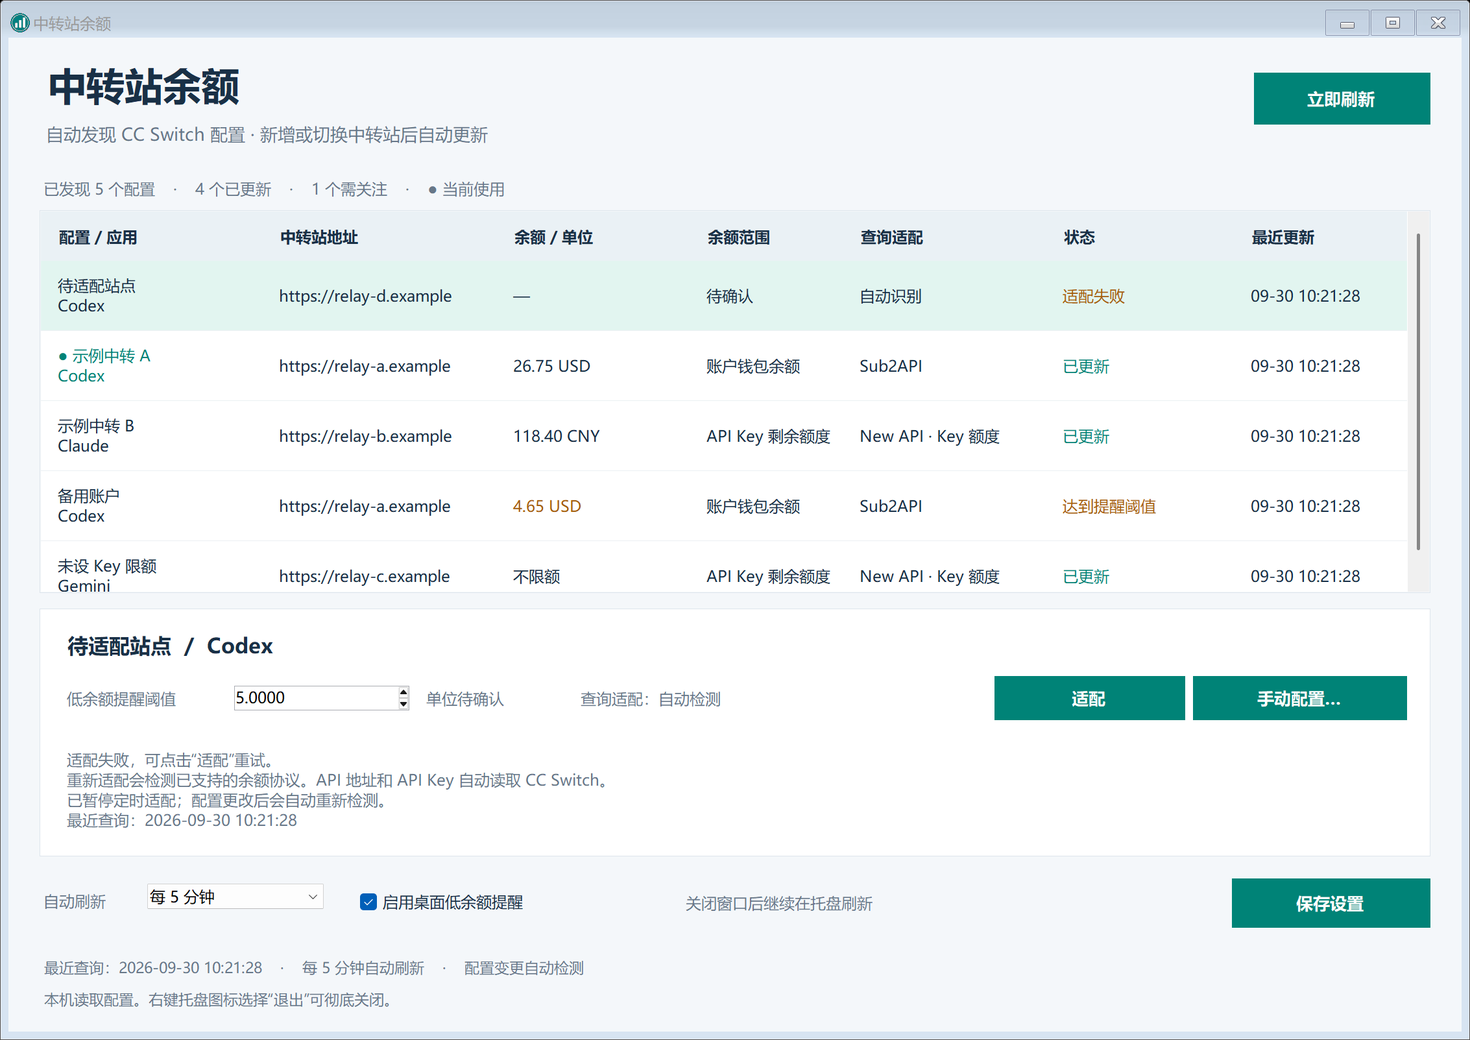
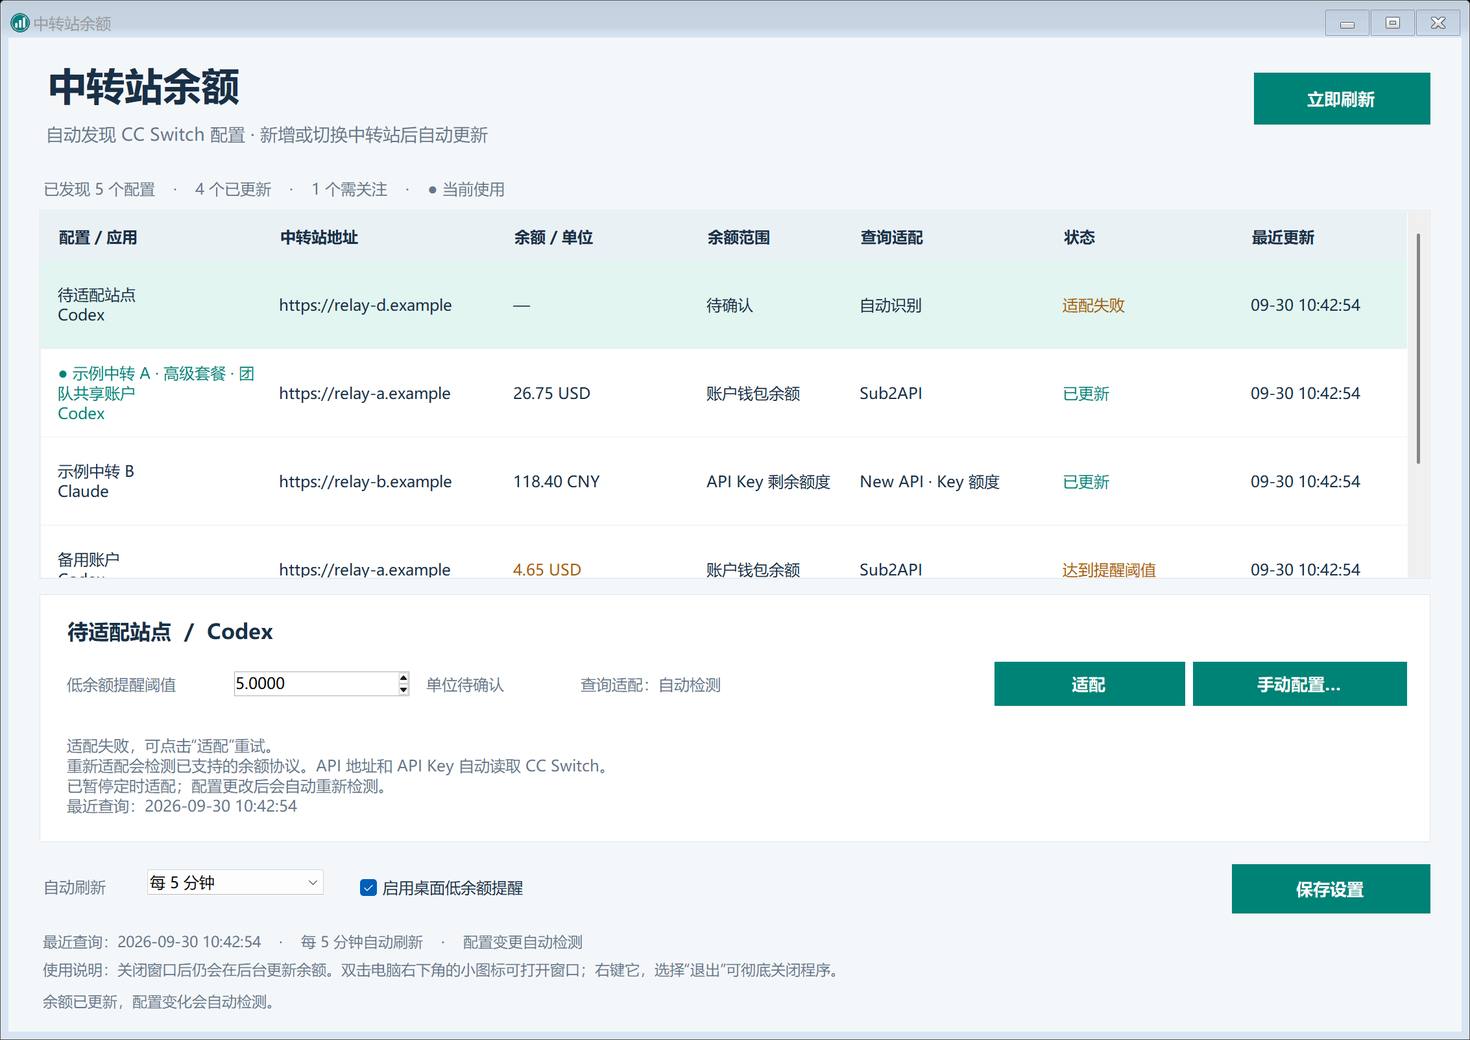
Improve failure retries, provider row sizing, and background guidance

diff --git a/src/BalanceForm.cs b/src/BalanceForm.cs
@@ -61,8 +61,9 @@ namespace RelayBalanceDesktop
         {
             float scale; using (Graphics graphics = CreateGraphics()) scale = graphics.DpiY / 96F;
             _grid.ColumnHeadersHeight = (int)Math.Ceiling(38F * scale);
-            _grid.RowTemplate.Height = (int)Math.Ceiling(54F * scale);
-            _grid.DefaultCellStyle.Padding = new Padding((int)Math.Round(10F * scale), (int)Math.Round(6F * scale), 0, (int)Math.Round(6F * scale));
+            _grid.RowTemplate.MinimumHeight = (int)Math.Ceiling(68F * scale);
+            _grid.RowTemplate.Height = _grid.RowTemplate.MinimumHeight;
+            _grid.DefaultCellStyle.Padding = new Padding((int)Math.Round(10F * scale), (int)Math.Round(10F * scale), 0, (int)Math.Round(10F * scale));
             _grid.ColumnHeadersDefaultCellStyle.Padding = new Padding((int)Math.Round(10F * scale), 0, 0, 0);
             foreach (DataGridViewColumn column in _grid.Columns) column.MinimumWidth = (int)Math.Ceiling(column.MinimumWidth * scale);
             _contentMinimum = new Size((int)Math.Ceiling(1048F * scale), (int)Math.Ceiling(580F * scale));
@@ -98,7 +99,7 @@ namespace RelayBalanceDesktop
             layout.ColumnStyles.Add(new ColumnStyle(SizeType.Percent, 100F));
             layout.RowStyles.Add(new RowStyle(SizeType.Absolute, 82F)); layout.RowStyles.Add(new RowStyle(SizeType.Absolute, 34F));
             layout.RowStyles.Add(new RowStyle(SizeType.Percent, 100F)); layout.RowStyles.Add(new RowStyle(SizeType.Absolute, 199F));
-            layout.RowStyles.Add(new RowStyle(SizeType.Absolute, 67F)); layout.RowStyles.Add(new RowStyle(SizeType.Absolute, 50F));
+            layout.RowStyles.Add(new RowStyle(SizeType.Absolute, 58F)); layout.RowStyles.Add(new RowStyle(SizeType.Absolute, 70F));
             Controls.Add(layout);
             Panel header = new Panel(); header.Size = new Size(1072, 82); header.Dock = DockStyle.Fill; header.Margin = Padding.Empty;
             header.Controls.Add(LabelAt("中转站余额", 0, 0, 500, 37, 22F, FontStyle.Bold, Ink));
@@ -121,8 +122,9 @@ namespace RelayBalanceDesktop
             _grid.ColumnHeadersDefaultCellStyle.Font = new Font(Font, FontStyle.Bold); _grid.ColumnHeadersDefaultCellStyle.Padding = new Padding(10, 0, 0, 0);
             _grid.DefaultCellStyle.BackColor = Color.White; _grid.DefaultCellStyle.ForeColor = Ink;
             _grid.DefaultCellStyle.SelectionBackColor = Color.FromArgb(226, 245, 240); _grid.DefaultCellStyle.SelectionForeColor = Ink;
-            _grid.DefaultCellStyle.Padding = new Padding(10, 6, 0, 6); _grid.DefaultCellStyle.WrapMode = DataGridViewTriState.True;
-            _grid.RowTemplate.Height = 54;
+            _grid.DefaultCellStyle.Padding = new Padding(10, 10, 0, 10); _grid.DefaultCellStyle.WrapMode = DataGridViewTriState.True;
+            _grid.RowTemplate.MinimumHeight = 68; _grid.RowTemplate.Height = 68;
+            _grid.AutoSizeRowsMode = DataGridViewAutoSizeRowsMode.AllCellsExceptHeaders;
             AddColumn("provider", "配置 / 应用", 177, 154); AddColumn("origin", "中转站地址", 191, 140);
             AddColumn("balance", "余额 / 单位", 132, 117); AddColumn("kind", "余额范围", 103, 88);
             AddColumn("adapter", "查询适配", 139, 110); AddColumn("status", "状态", 127, 110); AddColumn("updated", "最近更新", 117, 104);
@@ -164,13 +166,16 @@ namespace RelayBalanceDesktop
             _notifications = new CheckBox(); _notifications.Location = new Point(247, 13); _notifications.Size = new Size(236, 29);
             _notifications.Text = "启用桌面低余额提醒"; _notifications.Checked = _preview || LoadNotifications();
             _notifications.CheckedChanged += delegate { SaveNotifications(); }; global.Controls.Add(_notifications);
-            global.Controls.Add(LabelAt("关闭窗口后继续在托盘刷新", 495, 13, 335, 29, 9F, FontStyle.Regular, Muted));
             _saveButton = ActionButton("保存设置", 919, 9, 153, 38); _saveButton.Anchor = AnchorStyles.Top | AnchorStyles.Right;
             _saveButton.Click += delegate { SaveSettings(); }; global.Controls.Add(_saveButton); layout.Controls.Add(global, 0, 4);
-            Panel footer = new Panel(); footer.Size = new Size(1072, 50); footer.Dock = DockStyle.Fill; footer.Margin = Padding.Empty;
-            _checkedLabel = LabelAt("最近查询：尚未查询", 1, 0, 1068, 21, 8.5F, FontStyle.Regular, Muted); _checkedLabel.Anchor = AnchorStyles.Top | AnchorStyles.Left | AnchorStyles.Right; footer.Controls.Add(_checkedLabel);
-            _messageLabel = LabelAt("本机读取配置。右键托盘图标选择“退出”可彻底关闭。", 1, 24, 1068, 22, 8.5F, FontStyle.Regular, Muted);
-            _messageLabel.Anchor = AnchorStyles.Top | AnchorStyles.Left | AnchorStyles.Right; footer.Controls.Add(_messageLabel); layout.Controls.Add(footer, 0, 5);
+            TableLayoutPanel footer = new TableLayoutPanel(); footer.Dock = DockStyle.Fill; footer.Margin = Padding.Empty; footer.ColumnCount = 1; footer.RowCount = 3;
+            footer.ColumnStyles.Add(new ColumnStyle(SizeType.Percent,100F));
+            footer.RowStyles.Add(new RowStyle(SizeType.Absolute,21F)); footer.RowStyles.Add(new RowStyle(SizeType.Absolute,22F)); footer.RowStyles.Add(new RowStyle(SizeType.Percent,100F));
+            _checkedLabel = LabelAt("最近查询：尚未查询", 0, 0, 1068, 21, 8.5F, FontStyle.Regular, Muted); _checkedLabel.Dock = DockStyle.Fill; _checkedLabel.Margin = Padding.Empty; footer.Controls.Add(_checkedLabel,0,0);
+            Label backgroundHint = LabelAt("使用说明：关闭窗口后仍会在后台更新余额。双击电脑右下角的小图标可打开窗口；右键它，选择“退出”可彻底关闭程序。",0,0,1068,22,8.5F,FontStyle.Regular,Muted);
+            backgroundHint.Dock = DockStyle.Fill; backgroundHint.Margin = Padding.Empty; footer.Controls.Add(backgroundHint,0,1); _tips.SetToolTip(backgroundHint,backgroundHint.Text);
+            _messageLabel = LabelAt("已连接本机 CC Switch 配置。", 0, 0, 1068, 22, 8.5F, FontStyle.Regular, Muted); _messageLabel.Dock = DockStyle.Fill; _messageLabel.Margin = Padding.Empty;
+            footer.Controls.Add(_messageLabel,0,2); layout.Controls.Add(footer, 0, 5);
         }
         private void AddColumn(string name, string heading, float weight, int minimum)
         {
@@ -201,7 +206,7 @@ namespace RelayBalanceDesktop
         public void ShowFromTray() { RunOnUi(delegate { Show(); WindowState = FormWindowState.Normal; ShowInTaskbar = true; Activate(); BringToFront(); }); }
         private void HideToTray(bool explain)
         {
-            Hide(); if (explain && !_trayHintShown && _tray != null) { _trayHintShown = true; _tray.ShowBalloonTip(3000, "中转站余额仍在运行", "后台会继续刷新。双击托盘图标打开，右键选择“退出”可彻底关闭。", ToolTipIcon.Info); }
+            Hide(); if (explain && !_trayHintShown && _tray != null) { _trayHintShown = true; _tray.ShowBalloonTip(3000, "中转站余额仍在后台运行", "双击电脑右下角的小图标可打开窗口；右键它，选择“退出”可彻底关闭程序。", ToolTipIcon.Info); }
         }
         protected override void OnFormClosing(FormClosingEventArgs e)
         {
@@ -254,6 +259,8 @@ namespace RelayBalanceDesktop
             _refreshButton.Enabled = !data.refreshing; _refreshButton.Text = data.refreshing ? "正在刷新…" : "立即刷新";
             MergeSettings(data); string preserveId = _selectedId; int scroll = _grid.FirstDisplayedScrollingRowIndex;
             _updatingGrid = true; _grid.SuspendLayout();
+            // Measure once after the batch. Native auto sizing then follows later column-width changes.
+            _grid.AutoSizeRowsMode = DataGridViewAutoSizeRowsMode.None;
             try
             {
                 _providers.Clear(); _grid.Rows.Clear(); int good = 0, needsAttention = 0, selectedIndex = -1;
@@ -273,6 +280,7 @@ namespace RelayBalanceDesktop
                         if (p.status == "ok") good++; else if (p.status != "pending" && p.status != "disabled") needsAttention++;
                         if (String.Equals(p.id, preserveId, StringComparison.Ordinal)) selectedIndex = index; HandleLowBalance(p);
                     }
+                _grid.AutoSizeRowsMode = DataGridViewAutoSizeRowsMode.AllCellsExceptHeaders;
                 _grid.ClearSelection();
                 if (_grid.Rows.Count > 0)
                 {
@@ -286,10 +294,10 @@ namespace RelayBalanceDesktop
                 _summaryLabel.Text = "已发现 " + _providers.Count.ToString(CultureInfo.InvariantCulture) + " 个配置    ·    " + good.ToString(CultureInfo.InvariantCulture) + " 个已更新" + (needsAttention > 0 ? "    ·    " + needsAttention.ToString(CultureInfo.InvariantCulture) + " 个需关注" : "") + "    ·    ● 当前使用";
                 List<string> removed = new List<string>(); foreach (string id in _lastLow.Keys) if (!_providers.ContainsKey(id)) removed.Add(id); foreach (string id in removed) _lastLow.Remove(id);
             }
-            finally { _grid.ResumeLayout(); _updatingGrid = false; }
+            finally { _grid.AutoSizeRowsMode = DataGridViewAutoSizeRowsMode.AllCellsExceptHeaders; _grid.ResumeLayout(); _updatingGrid = false; }
             ShowSelection();
             _checkedLabel.Text = "最近查询：" + LocalDate(data.checkedAt, true) + "    ·    " + IntervalText(data.intervalSeconds) + "自动刷新    ·    配置变更自动检测";
-            if (!SettingsDirty && !_waitingForSettings) SetMessage(!String.IsNullOrWhiteSpace(data.message) ? data.message : (data.refreshing ? "正在查询配置的中转站，请稍候…" : "本机读取配置。右键托盘图标选择“退出”可彻底关闭。"), String.IsNullOrWhiteSpace(data.message) ? Muted : Warning);
+            if (!SettingsDirty && !_waitingForSettings) SetMessage(!String.IsNullOrWhiteSpace(data.message) ? data.message : (data.refreshing ? "正在查询配置的中转站，请稍候…" : "余额已更新，配置变化会自动检测。"), String.IsNullOrWhiteSpace(data.message) ? Muted : Warning);
         }
         private void MergeSettings(Snapshot data)
         {
@@ -329,9 +337,10 @@ namespace RelayBalanceDesktop
             AdapterConfig config; _adapters.TryGetValue(p.id, out config);
             _selectedAdapter.Text = "查询适配：" + AdapterName(config == null ? "auto" : config.type) + (_editedAdapters.Contains(p.id) ? "（待保存）" : ""); _tips.SetToolTip(_selectedAdapter, _selectedAdapter.Text);
             bool unresolved = p.status == "unsupported";
-            _retryDetectionButton.Visible = unresolved;
-            _retryDetectionButton.Enabled = unresolved && !_waitingForSettings && !_refreshing && !_editedAdapters.Contains(p.id) && (p.adapterConfig == null || p.adapterConfig.type == "auto");
-            _tips.SetToolTip(_retryDetectionButton, _editedAdapters.Contains(p.id) ? "查询适配已修改，请先保存设置，再重新适配。" : "重新尝试已支持的余额协议；不会执行脚本或登录网站。");
+            bool retryable = unresolved || p.status == "error" || p.status == "stale";
+            _retryDetectionButton.Visible = retryable;
+            _retryDetectionButton.Enabled = retryable && !_waitingForSettings && !_refreshing && !_editedAdapters.Contains(p.id);
+            _tips.SetToolTip(_retryDetectionButton, _editedAdapters.Contains(p.id) ? "查询适配已修改，请先保存设置，再重新适配。" : "重新检测所选站点；已有手动配置会保留，并按该配置重试。不会执行脚本或登录网站。");
             _adapterButton.Text = "手动配置…";
             _details.Text = StatusText(p) + (String.IsNullOrWhiteSpace(p.message) ? "" : " · " + p.message) + "\r\n今日实际用量：" + OptionalAmount(p.todayUsage, p.unit) + "    累计实际用量：" + OptionalAmount(p.totalUsage, p.unit)
                 + "\r\n最近查询：" + LocalDate(p.updatedAt, true) + "    最近成功：" + LocalDate(p.lastSuccessAt, true);
@@ -340,14 +349,15 @@ namespace RelayBalanceDesktop
                 + "\r\n重新适配会检测已支持的余额协议。API 地址和 API Key 自动读取 CC Switch。"
                 + "\r\n已暂停定时适配；配置更改后会自动重新检测。"
                 + "\r\n" + (_editedAdapters.Contains(p.id) ? "适配方式已修改，请先保存设置。" : "最近查询：" + LocalDate(p.updatedAt, true));
+            else if(retryable) _details.Text = "可点击“适配”重试所选站点，或使用“手动配置…”。已有手动配置会保留。\r\n" + _details.Text;
             _tips.SetToolTip(_details, _details.Text);
         }
         private void RetryDetection()
         {
             if (_preview || _waitingForSettings || _refreshing || _selectedId == null || _editedAdapters.Contains(_selectedId)) return;
-            ProviderSnapshot p; if (!_providers.TryGetValue(_selectedId, out p) || p.status != "unsupported") return;
+            ProviderSnapshot p; if (!_providers.TryGetValue(_selectedId, out p) || (p.status != "unsupported" && p.status != "error" && p.status != "stale")) return;
             _retryDetectionButton.Enabled = false; _refreshing = true; _refreshButton.Enabled = false; _refreshButton.Text = "正在适配…";
-            SetMessage("正在重新适配所选配置，检测已支持的余额协议…", Muted);
+            SetMessage("正在重新检测所选站点，已有手动配置会保留…", Muted);
             try { _client.RetryDetection(_selectedId); } catch { OnErrorReceived("适配未完成，请稍后重试。"); }
         }
         private void ConfigureAdapter()

diff --git a/src/Program.cs b/src/Program.cs
@@ -15,8 +15,8 @@ using System.Windows.Forms;
 [assembly: AssemblyDescription("自动发现 CC Switch 配置的本地 API 余额监控")]
 [assembly: AssemblyCompany("Relay Balance contributors")]
 [assembly: AssemblyProduct("Relay Balance Desktop")]
-[assembly: AssemblyVersion("1.1.1.0")]
-[assembly: AssemblyFileVersion("1.1.1.0")]
+[assembly: AssemblyVersion("1.1.2.0")]
+[assembly: AssemblyFileVersion("1.1.2.0")]
 
 namespace RelayBalanceDesktop
 {
@@ -71,7 +71,7 @@ namespace RelayBalanceDesktop
                 checkedAt = time, intervalSeconds = 300, refreshing = false,
                 providers = new List<ProviderSnapshot>
                 {
-                    new ProviderSnapshot { id="p-00000000000000000001",name="示例中转 A",app="codex",origin="https://relay-a.example",status="ok",remaining=26.7500,unit="USD",todayUsage=1.2500,totalUsage=73.25,threshold=5,current=true,adapter="sub2api",adapterLabel="Sub2API",balanceKindLabel="账户钱包余额",message="示例数据；余额来自站点接口，用量为当前 API Key 实际花费",updatedAt=time,lastSuccessAt=time },
+                    new ProviderSnapshot { id="p-00000000000000000001",name="示例中转 A · 高级套餐 · 团队共享账户",app="codex",origin="https://relay-a.example",status="ok",remaining=26.7500,unit="USD",todayUsage=1.2500,totalUsage=73.25,threshold=5,current=true,adapter="sub2api",adapterLabel="Sub2API",balanceKindLabel="账户钱包余额",message="示例数据；余额来自站点接口，用量为当前 API Key 实际花费",updatedAt=time,lastSuccessAt=time },
                     new ProviderSnapshot { id="p-00000000000000000002",name="示例中转 B",app="claude",origin="https://relay-b.example",status="ok",remaining=118.4000,unit="CNY",totalUsage=482.10,threshold=5,adapter="newapi-token",adapterLabel="New API · Key 额度",balanceKindLabel="API Key 剩余额度",message="示例数据；按站点公布比例换算，非账户钱包",updatedAt=time,lastSuccessAt=time },
                     new ProviderSnapshot { id="p-00000000000000000003",name="备用账户",app="codex",origin="https://relay-a.example",status="ok",remaining=4.6500,unit="USD",todayUsage=0,totalUsage=95.35,threshold=5,lowBalance=true,adapter="sub2api",adapterLabel="Sub2API",balanceKindLabel="账户钱包余额",message="示例数据；同站点不同配置分别显示",updatedAt=time,lastSuccessAt=time },
                     new ProviderSnapshot { id="p-00000000000000000004",name="未设 Key 限额",app="gemini",origin="https://relay-c.example",status="ok",remaining=null,unit="quota",threshold=5,unlimited=true,adapter="newapi-token",adapterLabel="New API · Key 额度",balanceKindLabel="API Key 剩余额度",message="此 Key 未设限额，不代表账户资金无限",updatedAt=time,lastSuccessAt=time },
@@ -96,6 +96,10 @@ namespace RelayBalanceDesktop
                 AssertActionReachable((Button)typeof(BalanceForm).GetField("_retryDetectionButton",BindingFlags.NonPublic|BindingFlags.Instance).GetValue(form));
                 AssertActionReachable((Button)typeof(BalanceForm).GetField("_adapterButton",BindingFlags.NonPublic|BindingFlags.Instance).GetValue(form));
                 SavePreview(form, Path.Combine(directory,"adaptation-preview.png"));
+                failed.status="error";failed.message="示例：连接暂时失败，可点击“适配”重试";
+                form.ApplySnapshot(failedFirst);Application.DoEvents();
+                AssertActionReachable((Button)typeof(BalanceForm).GetField("_retryDetectionButton",BindingFlags.NonPublic|BindingFlags.Instance).GetValue(form));
+                SavePreview(form,Path.Combine(directory,"query-retry-preview.png"));
                 form.Close();
             }
             return 0;
@@ -153,6 +157,30 @@ namespace RelayBalanceDesktop
                 }
                 if(modalError!=null)throw modalError;
                 if(!opened)throw new Exception("manual configuration did not open");
+                foreach(string failedStatus in new string[]{"error","stale"})
+                {
+                    snapshot.providers[0].status=failedStatus;
+                    snapshot.providers[0].adapterConfig=new AdapterConfig { type="custom",path="/balance",remainingPath="data.balance",unit="USD",balanceKind="account",divisor=1 };
+                    form.ApplySnapshot(snapshot);Application.DoEvents();AssertActionReachable(retry);AssertActionReachable(manual);
+                }
+                snapshot.providers[0].status="unsupported";snapshot.providers[0].adapterConfig=new AdapterConfig{type="auto"};
+                snapshot.providers[0].name="长名称中转站示例 · 多项目开发与研究团队共享的高级账户 · 按站点配置完整展示名称与应用类型";
+                snapshot.providers[1].name="短名称";
+                form.ApplySnapshot(snapshot);Application.DoEvents();
+                foreach(int width in new int[]{form.Width,form.Width+300,form.MinimumSize.Width})
+                {
+                    form.Width=width;Application.DoEvents();
+                    for(int round=0;round<2;round++)
+                    {
+                        form.ApplySnapshot(snapshot);Application.DoEvents();
+                        for(int i=0;i<grid.Rows.Count;i++)
+                        {
+                            int required=grid.Rows[i].GetPreferredHeight(i,DataGridViewAutoSizeRowMode.AllCellsExceptHeader,true);
+                            if(grid.Rows[i].Height<required)throw new Exception("provider row clips wrapped name or app");
+                        }
+                        if(grid.Rows[0].Height<=grid.Rows[1].Height)throw new Exception("long provider name does not expand its row");
+                    }
+                }
                 form.Close();
             }
         }
@@ -226,7 +254,7 @@ namespace RelayBalanceDesktop
                     if(notifications.Checked)throw new Exception("notification reload");
                 }
                 TestProviderActions();
-                File.WriteAllText(report,"{\"passed\":true,\"checks\":[\"embedded runtime integrity\",\"empty database isolation\",\"dynamic providers\",\"settings persistence\",\"child process cleanup\",\"snapshot validation\",\"minimize to tray\",\"restore from tray\",\"close to tray\",\"tray exit and worker cleanup\",\"notification preference persistence\",\"adaptation and manual buttons reachable after selection refresh and resize\",\"manual configuration opens\"]}",new UTF8Encoding(false));
+                File.WriteAllText(report,"{\"passed\":true,\"checks\":[\"embedded runtime integrity\",\"empty database isolation\",\"dynamic providers\",\"settings persistence\",\"child process cleanup\",\"snapshot validation\",\"minimize to tray\",\"restore from tray\",\"close to tray\",\"tray exit and worker cleanup\",\"notification preference persistence\",\"adaptation and manual buttons reachable after selection refresh and resize\",\"manual configuration opens\",\"wrapped provider names and apps fit after refresh and resize\"]}",new UTF8Encoding(false));
                 return 0;
             }
             catch (Exception ex) { File.WriteAllText(report,new JavaScriptSerializer().Serialize(new {passed=false,error=ex.Message}),new UTF8Encoding(false));return 1; }

diff --git a/src/RuntimeBundle.cs b/src/RuntimeBundle.cs
@@ -10,7 +10,7 @@ namespace RelayBalanceDesktop
     {
         public static string Prepare()
         {
-            string directory = Path.Combine(Program.DataDirectory, "runtime", "1.1.1-" + RuntimeManifest.PayloadId);
+            string directory = Path.Combine(Program.DataDirectory, "runtime", "1.1.2-" + RuntimeManifest.PayloadId);
             Directory.CreateDirectory(directory);
             Extract(directory, "node.exe", "Payload.Node", RuntimeManifest.NodeHash, true);
             Extract(directory, "core.mjs", "Payload.Core", RuntimeManifest.CoreHash, false);

diff --git a/docs/ADAPTERS.md b/docs/ADAPTERS.md
@@ -12,7 +12,7 @@
 
 在主窗口选中任意配置，都可以点击独立的“手动配置…”功能，选择查询方式。点击“应用到待保存设置”后，还需在主窗口点击“保存设置”。只有明确知道站点协议时才手动指定。
 
-自动识别未成功时，状态显示“适配失败”。选中该配置后，点击“适配”即可使用当前站点地址和凭据，再次尝试软件已支持的余额协议。该操作不更改已保存设置，并遵守站点的限流等待时间。
+自动识别未成功时显示“适配失败”，认证或网络等查询问题显示“查询失败”；保留旧余额的查询失败也可以重试。选中失败配置，点击下方“适配”：自动模式重新检测软件已支持的余额协议，手动模式按已保存的配置重试。该操作不重置手动配置或字段映射，并遵守站点的限流等待时间。认证无效时需要在 CC Switch 修正凭据，重复点击无法修复无效 Key。
 
 自动适配失败的配置会暂停周期性探测，普通“立即刷新”也不会重新探测它。点击“适配”，或更换该配置的 Key、地址、适配方式后，才重新尝试。其他可查询或临时出错的配置继续按刷新计划处理。存在尚未保存的适配修改时，请先保存，再点击“适配”。
 
@@ -98,6 +98,6 @@ New API 只有在接口提供可靠的额度换算参数、币种及所需汇率
 | `CC_SWITCH_DB` | `%USERPROFILE%\.cc-switch\cc-switch.db` | 指定 CC Switch SQLite 数据库位置，只读访问。 |
 | `RELAY_BALANCE_STATE_DIR` | `%LOCALAPPDATA%\RelayBalanceDesktop\state` | 指定阈值、刷新间隔和适配规则的保存目录。 |
 
-环境变量需要在启动 EXE 前设置。更改后从托盘“退出”再启动，使新进程读取新值。设置文件不包含 API Key，查询凭据仍来自本机 CC Switch。
+环境变量需要在启动 EXE 前设置。更改后右键电脑右下角的程序小图标，选择“退出”，再启动程序读取新值。设置文件不包含 API Key，查询凭据仍来自本机 CC Switch。
 
 排查时先核对 CC Switch 中的配置地址、Key 和当前协议，再核对接口权限和单位。提交 GitHub 问题时可提供软件版本、协议名称、错误状态和虚构的响应结构；不要提交数据库、真实 Key、账户令牌、Cookie 或未脱敏的原始响应。
